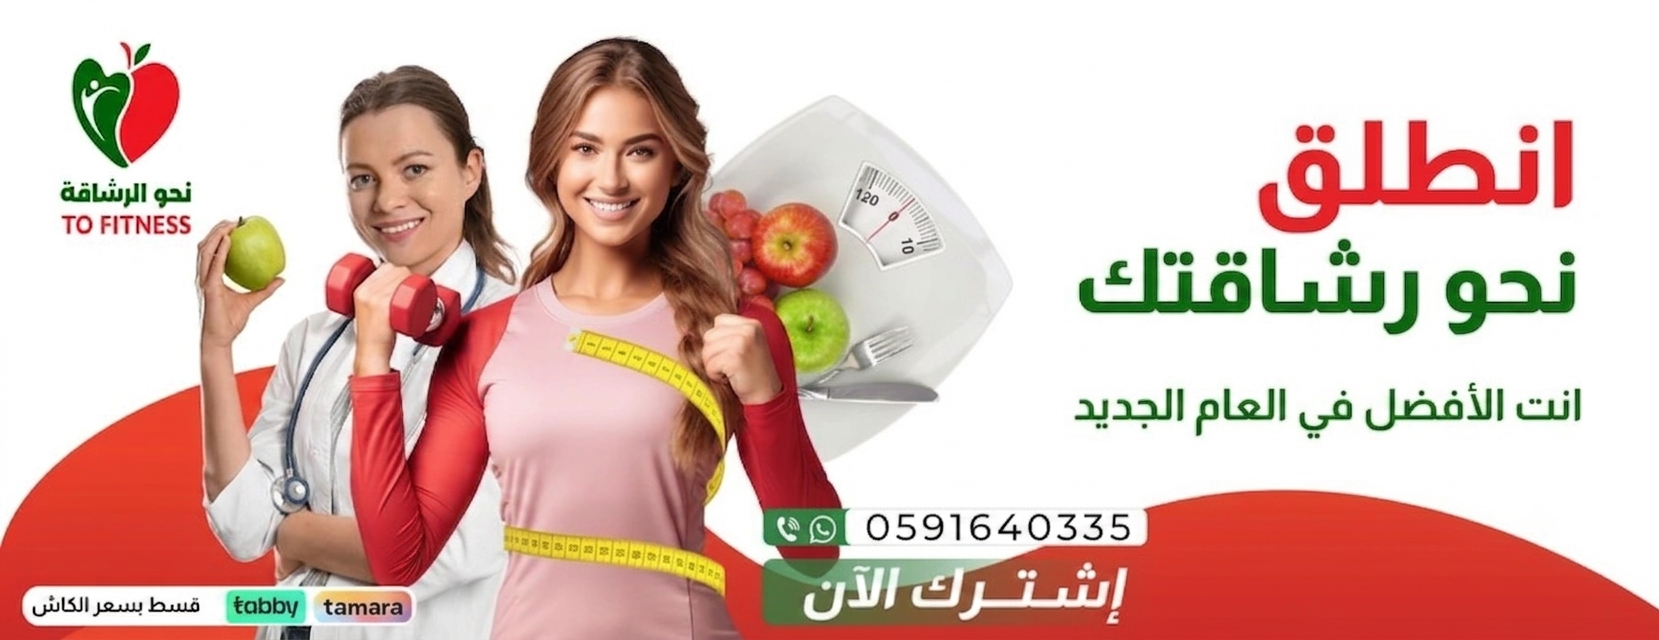
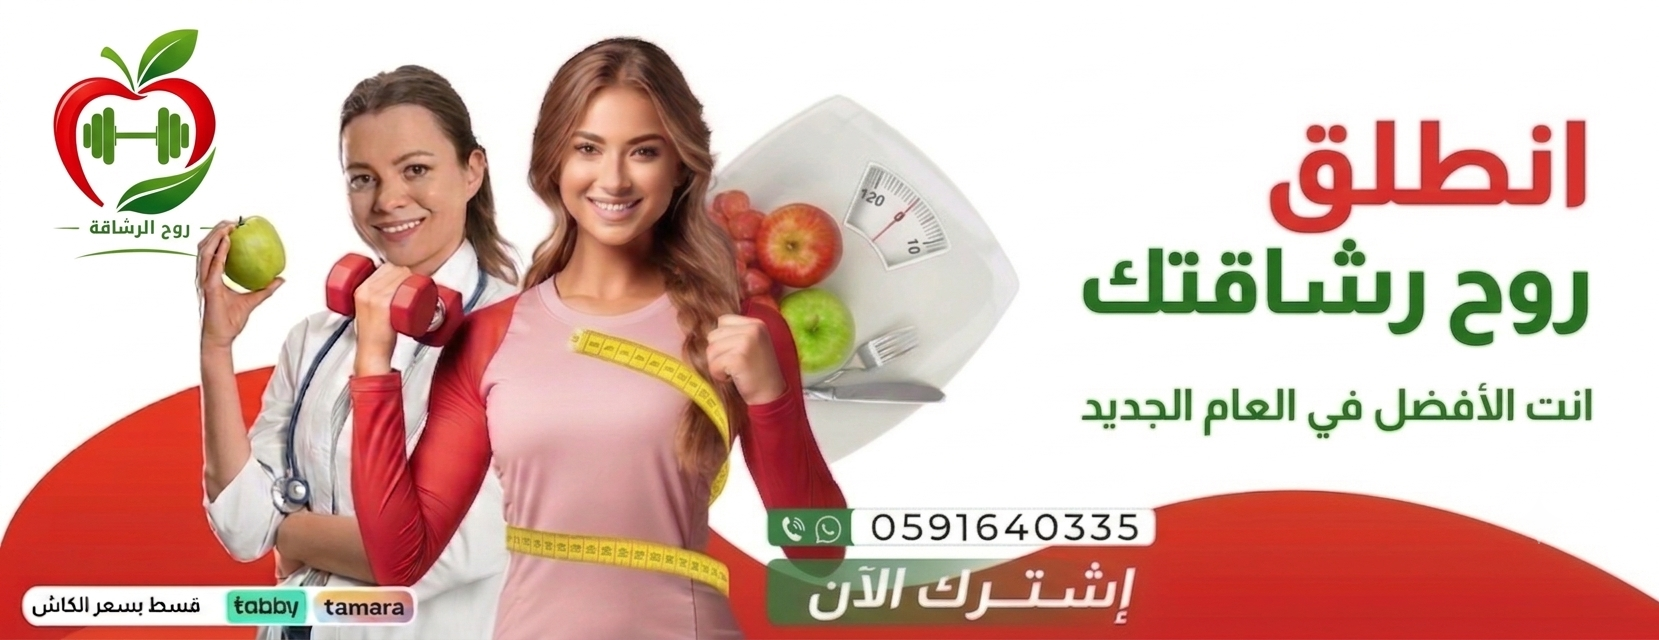
dd

diff --git a/src/components/layout/Footer.tsx b/src/components/layout/Footer.tsx
@@ -14,12 +14,12 @@ export default function Footer() {
       <div className={styles.container}>
         {/* Logo */}
         <div className={styles.logoWrap}>
-          <img src="/logo.jpeg" alt="نحو الرشاقة" />
+          <img src="/logo.jpeg" alt="روح الرشاقة" />
         </div>
 
         {/* Text */}
         <p className={styles.desc}>
-          "نحو الرشاقة" هو المركز الفريد كلياً في السعودية برؤيته في دعم رواده لإتباع أنماط الحياة الصحية من خلال أفضل خبراء التغذية و أنظمة غذائية ذكية ومنتجات منوعة تمكن من الوصول إلي الوزن المثالي
+          "روح الرشاقة" هو المركز الفريد كلياً في السعودية برؤيته في دعم رواده لإتباع أنماط الحياة الصحية من خلال أفضل خبراء التغذية و أنظمة غذائية ذكية ومنتجات منوعة تمكن من الوصول إلي الوزن المثالي
         </p>
 
         {/* Social */}
@@ -33,7 +33,7 @@ export default function Footer() {
         <div className={styles.registryBlock}>
           <div className={styles.registryText}>
             <div>السجل التجاري</div>
-            <div style={{ fontWeight: 800 }}>1010792487</div>
+            <div style={{ fontWeight: 800 }}>0192992929292</div>
           </div>
           <div className={styles.registryImgWrap}>
             <img src="https://cdn.salla.network/images/sbc.png?v=1" alt="سجل تجاري" className={styles.registryImg} onError={(e) => { e.currentTarget.style.display = 'none'; e.currentTarget.parentElement!.innerHTML = '<i class="fa-solid fa-scale-balanced" style="font-size: 32px; color: #fff;"></i>'; }} />
@@ -71,7 +71,7 @@ export default function Footer() {
         <div className={styles.vatBlock}>
           <div className={styles.vatText}>
             <div>الرقم الضريبي</div>
-            <div style={{ fontWeight: 800 }}>311101960600003</div>
+            <div style={{ fontWeight: 800 }}>11111111111111111</div>
           </div>
           <img src="https://cdn.salla.network/images/tax.png?v=2.0.5" alt="الرقم الضريبي" className={styles.vatImg} />
         </div>

diff --git a/src/components/layout/Header.tsx b/src/components/layout/Header.tsx
@@ -36,7 +36,7 @@ export default function Header() {
                 <i className="fa-regular fa-moon" />
               </button>
               <div className={styles.headerContact}>
-                <a href="tel:+966591640335"><i className="fa-solid fa-phone" /> +966591640335</a>
+                <a href="tel:0591640335"><i className="fa-solid fa-phone" /> 0591640335</a>
               </div>
             </div>
 
@@ -44,7 +44,7 @@ export default function Header() {
               <Link href="/" className={styles.navLogo}>
                 <img
                   src="/logo.png"
-                  alt="نحو الرشاقة - To Fitness"
+                  alt="روح الرشاقة"
                 />
               </Link>
             </div>

diff --git a/src/app/page.tsx b/src/app/page.tsx
@@ -108,7 +108,8 @@ export default function Home() {
         <section className="container" style={{ marginBottom: '48px' }}>
           <div style={{ display: 'grid', gridTemplateColumns: '1fr', gap: '24px' }}>
             <a href="https://wa.me/966591640335" className="promo-banner" style={{ aspectRatio: '3/2' }}>
-              <img src="https://cdn.salla.sa/form-builder/QILJO4Ez4VT34YcMD2K5dqNvFByBsqZUj24nZqLs.jpg" alt="احجز موعدك الآن" />
+              <img src="/fahs.png" alt="احجز موعدك الآن" />
+
               <div className="overlay"><span>احجز موعدك الآن</span></div>
             </a>
             <a href="#" className="promo-banner" style={{ aspectRatio: '3/2' }}>

diff --git a/src/components/sections/HeroSlider.tsx b/src/components/sections/HeroSlider.tsx
@@ -7,9 +7,9 @@ import styles from './HeroSlider.module.css';
 const SLIDES = [
   {
     id: 0,
-    image: '/hero-image.png',
-    title: 'وصل حديثاً\nمنتجات عالمية',
-    desc: 'اكتشف أحدث منتجات التغذية والرشاقة المختارة بعناية',
+    image: '/Hero-image.png',
+    title: 'عيادة التغذية',
+    desc: 'تواصل معنا: 0591640335',
     btnLink: '/'
   },
 ];
